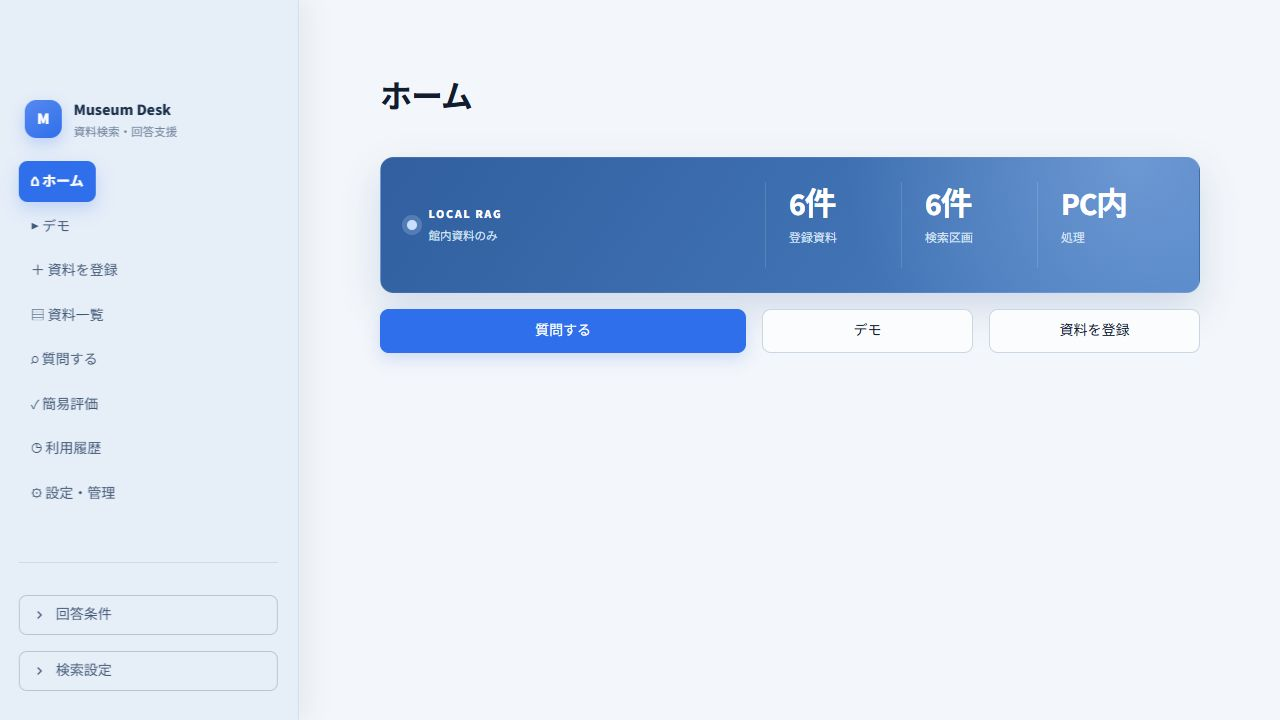
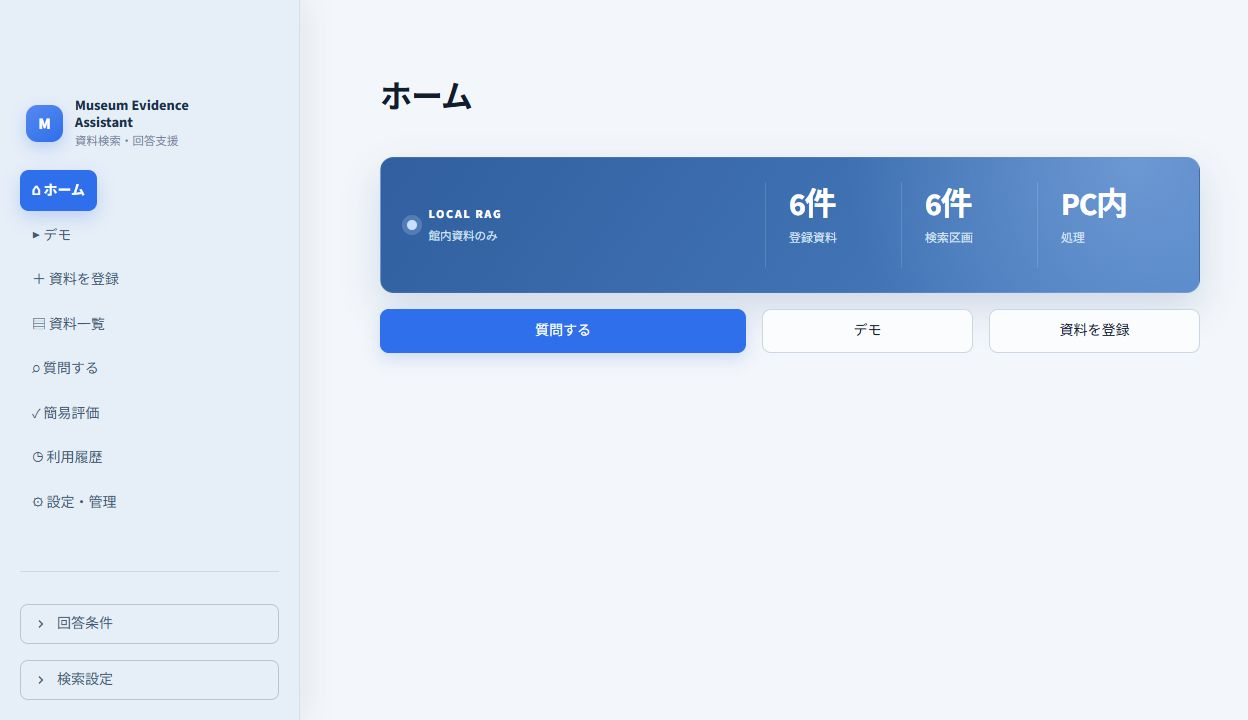
Rename app to Museum Evidence Assistant

diff --git a/src/ui/common.py b/src/ui/common.py
@@ -111,7 +111,7 @@ def render_sidebar_brand() -> None:
         <div class="sidebar-brand">
           <div class="brand-mark">M</div>
           <div>
-            <div class="brand-name">Museum Desk</div>
+            <div class="brand-name">Museum Evidence<br>Assistant</div>
             <div class="brand-subtitle">資料検索・回答支援</div>
           </div>
         </div>
@@ -264,7 +264,12 @@ def apply_accessible_styles() -> None:
             font-weight: 800;
             box-shadow: 0 6px 16px rgba(37, 99, 235, 0.22);
         }
-        .brand-name { color: #1B304C; font-size: 1rem; font-weight: 750; }
+        .brand-name {
+            color: #1B304C;
+            font-size: 0.9rem;
+            font-weight: 750;
+            line-height: 1.2;
+        }
         .brand-subtitle { color: #73869F; font-size: 0.72rem; margin-top: 0.05rem; }
         div.stButton > button,
         div.stDownloadButton > button {

diff --git a/src/ui/settings.py b/src/ui/settings.py
@@ -50,12 +50,12 @@ def render(services: ApplicationServices) -> None:
 
     with st.expander("このアプリについて"):
         st.markdown(
-            "Museum Desk  \n"
+            "Museum Evidence Assistant  \n"
             "Copyright © 2026 yutoo77  \n"
             "GNU Affero General Public License v3.0で公開されています。  \n"
             "本ソフトウェアは無保証の研究プロトタイプです。"
         )
         st.markdown(
             "[Source code・ライセンスを確認する]"
-            "(https://github.com/yutoo77/museum-desk-local-rag)"
+            "(https://github.com/yutoo77/museum-evidence-assistant)"
         )

diff --git a/README.md b/README.md
@@ -1,12 +1,12 @@
-# Museum Desk — 科学館職員向けローカルRAG
+# Museum Evidence Assistant — 科学館職員向けローカルRAG
 
-[![CI](https://github.com/yutoo77/museum-desk-local-rag/actions/workflows/ci.yml/badge.svg)](https://github.com/yutoo77/museum-desk-local-rag/actions/workflows/ci.yml)
+[![CI](https://github.com/yutoo77/museum-evidence-assistant/actions/workflows/ci.yml/badge.svg)](https://github.com/yutoo77/museum-evidence-assistant/actions/workflows/ci.yml)
 
 科学館内に分散する展示解説・FAQ・案内資料を検索し、**登録資料だけに基づく回答案と根拠**を職員が確認するためのlocal-first RAG prototypeです。
 
 > A local-first, evidence-grounded RAG prototype for science museum staff.
 
-![Museum Deskのホーム画面](docs/images/app-home.jpg)
+![Museum Evidence Assistantのホーム画面](docs/images/app-home.jpg)
 
 `sample_docs/`の施設名、開館時間、利用規則、展示解説はすべて架空です。実在する科学館の公式情報や研究内部資料は含みません。
 
@@ -20,7 +20,7 @@
 
 科学館では、展示解説、職員向けFAQ、イベント資料などが複数のfileへ分散しやすく、必要な情報を探して説明へ利用するまでに時間がかかります。一方、一般的な生成AIへ館内資料を送ることや、根拠のない回答を来館者案内へ使うことにはリスクがあります。
 
-Museum Deskは次の範囲へ問題を絞っています。
+Museum Evidence Assistantは次の範囲へ問題を絞っています。
 
 - 職員がPDF・txt・mdをlocal PCへ登録する
 - 質問に関連する箇所を検索する
@@ -136,8 +136,8 @@ Windows 10／11で実機確認しています。Application codeはmacOS／Linux
 ### 1. Cloneとvirtual environment
 
 ```powershell
-git clone https://github.com/yutoo77/museum-desk-local-rag.git
-cd museum-desk-local-rag
+git clone https://github.com/yutoo77/museum-evidence-assistant.git
+cd museum-evidence-assistant
 py -3.11 -m venv .venv
 .\.venv\Scripts\Activate.ps1
 python -m pip install --upgrade pip

diff --git a/SECURITY.md b/SECURITY.md
@@ -2,7 +2,7 @@
 
 ## 対象となる利用形態
 
-Museum Deskは、信頼できる利用者が単一PCで使用する研究プロトタイプです。
+Museum Evidence Assistantは、信頼できる利用者が単一PCで使用する研究プロトタイプです。
 Streamlitは`127.0.0.1`へだけbindし、設定で許可するOllama接続先もloopbackへ
 限定しています。認証、利用者ごとの権限管理、複数人同時利用は実装していません。
 
@@ -60,7 +60,7 @@ Gitの追跡対象だけでなく`data/`と`outputs/`の内容も確認してく
 ## 脆弱性の報告
 
 脆弱性を見つけた場合は、公開Issueへ機密情報や再現用の実データを貼らず、
-[GitHub Private Vulnerability Reporting](https://github.com/yutoo77/museum-desk-local-rag/security/advisories/new)
+[GitHub Private Vulnerability Reporting](https://github.com/yutoo77/museum-evidence-assistant/security/advisories/new)
 から報告してください。
 
 この文書は技術上の脅威モデルを示すもので、法的助言ではありません。
